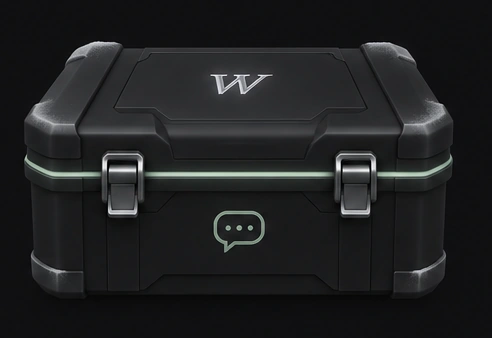
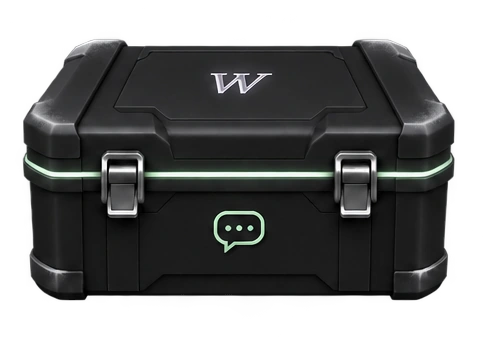
Add smooth case reward previews and isolated opaque chests in stationary rooms

diff --git a/holodos/src/site/index.html b/holodos/src/site/index.html
@@ -10,8 +10,8 @@
 <link rel="preconnect" href="https://fonts.gstatic.com" crossorigin>
 <link href="https://fonts.googleapis.com/css2?family=Manrope:wght@400;500;600;700;800&display=swap" rel="stylesheet">
 <link rel="preload" href="/assets/hero-main-2026.webp?v=20261114hq2" as="image" type="image/webp" fetchpriority="high">
-<link rel="stylesheet" href="/assets/site.css?v=20261114-solid20">
-<script src="/assets/site.js?v=20261114-solid20" defer></script>
+<link rel="stylesheet" href="/assets/site.css?v=20261114-hover22">
+<script src="/assets/site.js?v=20261114-hover22" defer></script>
 </head>
 <body>
 <div class="shell">
@@ -100,7 +100,7 @@
 <section class="view" id="view-cases" data-view="/cases">
  <div class="page-header cases-heading"><p class="eyebrow">КОЛЛЕКЦИЯ / WAR1OUSS</p><h1>Холод с характером<span class="period">.</span></h1><p>Пять кейсов. Пять способов получить свой дроп.</p></div>
  <div class="cases-status"><span class="cases-status-dot"></span><span>Коллекция готовится к запуску. Открытия пока недоступны.</span></div>
- <div class="cases-collection"><article class="collection-case collection-case--donation"><div class="case-artwork"><img src="/assets/case-donation.webp?v=18" alt="Донатный: металлический кейс War1ouss с инеем" width="492" height="338" loading="lazy" decoding="async"><span class="case-type">За донат</span></div><div class="case-content"><p class="case-number">01 / PREMIUM</p><div class="case-title-line"><h2>Донатный</h2></div><p class="case-description">Каждое открытие приносит награду. От W-монет до кодов VP и фигурки POP MART.</p><div class="case-cost">400 ₽</div><details class="case-rewards"><summary>Содержимое и шансы <span aria-hidden="true">+</span></summary><div class="case-reward-list"><div><span>500 W</span><strong>38,88%</strong></div><div><span>1 000 W</span><strong>20%</strong></div><div><span>2 000 W</span><strong>8%</strong></div><div><span>5 000 W</span><strong>2%</strong></div><div><span>10 000 W</span><strong>3%</strong></div><div><span>240 VP</span><strong>25%</strong></div><div><span>475 VP</span><strong>0,08%</strong></div><div><span>1 000 VP</span><strong>0,02%</strong></div><div><span>VIP на месяц</span><strong>3%</strong></div><div><span>Фигурка POP MART</span><strong>0,02%</strong></div></div><p class="case-odds-note">Шанс каждого открытия независим. Редкая награда не гарантирована.</p></details><button class="case-open-button" type="button" disabled>Скоро открытие <span aria-hidden="true">↗</span></button></div></article><article class="collection-case collection-case--twitch"><div class="case-artwork"><img src="/assets/case-twitch.webp?v=18" alt="Баллы Twitch: металлический кейс War1ouss с инеем" width="492" height="338" loading="lazy" decoding="async"><span class="case-type">За баллы канала</span></div><div class="case-content"><p class="case-number">02 / TWITCH</p><div class="case-title-line"><h2>Баллы Twitch</h2></div><p class="case-description">Обменивай баллы канала на кейс. W-монеты, VIP и коды VP внутри.</p><div class="case-cost">10 000 баллов</div><details class="case-rewards"><summary>Содержимое и шансы <span aria-hidden="true">+</span></summary><div class="case-reward-list"><div><span>Ничего</span><strong>50%</strong></div><div><span>100 W</span><strong>35%</strong></div><div><span>1 000 W</span><strong>10%</strong></div><div><span>2 000 W</span><strong>2%</strong></div><div><span>5 000 W</span><strong>0,5%</strong></div><div><span>240 VP</span><strong>0,1%</strong></div><div><span>475 VP</span><strong>0,05%</strong></div><div><span>VIP на месяц</span><strong>2,35%</strong></div></div><p class="case-odds-note">Шанс каждого открытия независим. Редкая награда не гарантирована.</p></details><button class="case-open-button" type="button" disabled>Скоро открытие <span aria-hidden="true">↗</span></button></div></article><article class="collection-case collection-case--chat"><div class="case-artwork"><img src="/assets/case-chat.webp?v=18" alt="За сообщения: металлический кейс War1ouss с инеем" width="492" height="338" loading="lazy" decoding="async"><span class="case-type">За активность</span></div><div class="case-content"><p class="case-number">03 / АКТИВНОСТЬ</p><div class="case-title-line"><h2>За сообщения</h2></div><p class="case-description">Общайся в чате. Прогресс к следующему кейсу накапливается между стримами.</p><div class="case-cost">1 500 сообщений</div><details class="case-rewards"><summary>Содержимое и шансы <span aria-hidden="true">+</span></summary><div class="case-reward-list"><div><span>Ничего</span><strong>40%</strong></div><div><span>100 W</span><strong>45%</strong></div><div><span>1 000 W</span><strong>10%</strong></div><div><span>2 000 W</span><strong>3%</strong></div><div><span>5 000 W</span><strong>0,5%</strong></div><div><span>VIP на месяц</span><strong>1,5%</strong></div></div><p class="case-odds-note">Шанс каждого открытия независим. Редкая награда не гарантирована.</p></details><button class="case-open-button" type="button" disabled>Скоро открытие <span aria-hidden="true">↗</span></button></div></article><article class="collection-case collection-case--vip"><div class="case-artwork"><img src="/assets/case-vip.webp?v=18" alt="VIP: металлический кейс War1ouss с инеем" width="492" height="338" loading="lazy" decoding="async"><span class="case-type">Раз в неделю</span></div><div class="case-content"><p class="case-number">04 / EXCLUSIVE</p><div class="case-title-line"><h2>VIP</h2></div><p class="case-description">Особый кейс для обладателей VIP-значка Twitch. Без пустого результата.</p><div class="case-cost">Для VIP канала</div><details class="case-rewards"><summary>Содержимое и шансы <span aria-hidden="true">+</span></summary><div class="case-reward-list"><div><span>100 W</span><strong>69,95%</strong></div><div><span>1 000 W</span><strong>23%</strong></div><div><span>2 000 W</span><strong>6%</strong></div><div><span>5 000 W</span><strong>0,9%</strong></div><div><span>240 VP</span><strong>0,08%</strong></div><div><span>475 VP</span><strong>0,05%</strong></div><div><span>Фигурка POP MART</span><strong>0,02%</strong></div></div><p class="case-odds-note">Шанс каждого открытия независим. Редкая награда не гарантирована.</p></details><button class="case-open-button" type="button" disabled>Скоро открытие <span aria-hidden="true">↗</span></button></div></article><article class="collection-case collection-case--coins"><div class="case-artwork"><img src="/assets/case-coins.webp?v=18" alt="За W-монеты: металлический кейс War1ouss с инеем" width="492" height="338" loading="lazy" decoding="async"><span class="case-type">Скоро</span></div><div class="case-content"><p class="case-number">05 / W COLLECTION</p><div class="case-title-line"><h2>За W-монеты</h2></div><p class="case-description">Новый способ использовать заработанные W. Стоимость и награды ещё настраиваются.</p><div class="case-cost">За W-монеты</div><div class="case-pending">Содержимое скоро появится</div><button class="case-open-button" type="button" disabled>Скоро открытие <span aria-hidden="true">↗</span></button></div></article></div><div class="cases-footnote"><span>W / WAR1OUSS</span><p>Условия и награды показаны для предварительного просмотра. Подключение выдачи кейсов — следующий этап.</p></div></section>
+ <div class="cases-collection"><article class="collection-case collection-case--donation"><div class="case-artwork"><img src="/assets/case-donation.webp?v=22" alt="Донатный: металлический кейс War1ouss с инеем" width="492" height="338" loading="lazy" decoding="async"><span class="case-type">За донат</span><div class="case-hover-rewards" aria-hidden="true"><span class="case-hover-label">МОЖЕТ ВЫПАСТЬ</span><div><span>500 W</span><span>1 000 W</span><span>2 000 W</span><span>5 000 W</span><span>10 000 W</span><span>240 VP</span><span>475 VP</span><span>1 000 VP</span><span>VIP на месяц</span><span>Фигурка POP MART</span></div></div></div><div class="case-content"><p class="case-number">01 / PREMIUM</p><div class="case-title-line"><h2>Донатный</h2></div><p class="case-description">Каждое открытие приносит награду. От W-монет до кодов VP и фигурки POP MART.</p><div class="case-cost">400 ₽</div><details class="case-rewards"><summary>Содержимое и шансы <span aria-hidden="true">+</span></summary><div class="case-reward-list"><div><span>500 W</span><strong>38,88%</strong></div><div><span>1 000 W</span><strong>20%</strong></div><div><span>2 000 W</span><strong>8%</strong></div><div><span>5 000 W</span><strong>2%</strong></div><div><span>10 000 W</span><strong>3%</strong></div><div><span>240 VP</span><strong>25%</strong></div><div><span>475 VP</span><strong>0,08%</strong></div><div><span>1 000 VP</span><strong>0,02%</strong></div><div><span>VIP на месяц</span><strong>3%</strong></div><div><span>Фигурка POP MART</span><strong>0,02%</strong></div></div><p class="case-odds-note">Шанс каждого открытия независим. Редкая награда не гарантирована.</p></details><button class="case-open-button" type="button" disabled>Скоро открытие <span aria-hidden="true">↗</span></button></div></article><article class="collection-case collection-case--twitch"><div class="case-artwork"><img src="/assets/case-twitch.webp?v=22" alt="Баллы Twitch: металлический кейс War1ouss с инеем" width="492" height="338" loading="lazy" decoding="async"><span class="case-type">За баллы канала</span><div class="case-hover-rewards" aria-hidden="true"><span class="case-hover-label">МОЖЕТ ВЫПАСТЬ</span><div><span>Ничего</span><span>100 W</span><span>1 000 W</span><span>2 000 W</span><span>5 000 W</span><span>240 VP</span><span>475 VP</span><span>VIP на месяц</span></div></div></div><div class="case-content"><p class="case-number">02 / TWITCH</p><div class="case-title-line"><h2>Баллы Twitch</h2></div><p class="case-description">Обменивай баллы канала на кейс. W-монеты, VIP и коды VP внутри.</p><div class="case-cost">10 000 баллов</div><details class="case-rewards"><summary>Содержимое и шансы <span aria-hidden="true">+</span></summary><div class="case-reward-list"><div><span>Ничего</span><strong>50%</strong></div><div><span>100 W</span><strong>35%</strong></div><div><span>1 000 W</span><strong>10%</strong></div><div><span>2 000 W</span><strong>2%</strong></div><div><span>5 000 W</span><strong>0,5%</strong></div><div><span>240 VP</span><strong>0,1%</strong></div><div><span>475 VP</span><strong>0,05%</strong></div><div><span>VIP на месяц</span><strong>2,35%</strong></div></div><p class="case-odds-note">Шанс каждого открытия независим. Редкая награда не гарантирована.</p></details><button class="case-open-button" type="button" disabled>Скоро открытие <span aria-hidden="true">↗</span></button></div></article><article class="collection-case collection-case--chat"><div class="case-artwork"><img src="/assets/case-chat.webp?v=22" alt="За сообщения: металлический кейс War1ouss с инеем" width="492" height="338" loading="lazy" decoding="async"><span class="case-type">За активность</span><div class="case-hover-rewards" aria-hidden="true"><span class="case-hover-label">МОЖЕТ ВЫПАСТЬ</span><div><span>Ничего</span><span>100 W</span><span>1 000 W</span><span>2 000 W</span><span>5 000 W</span><span>VIP на месяц</span></div></div></div><div class="case-content"><p class="case-number">03 / АКТИВНОСТЬ</p><div class="case-title-line"><h2>За сообщения</h2></div><p class="case-description">Общайся в чате. Прогресс к следующему кейсу накапливается между стримами.</p><div class="case-cost">1 500 сообщений</div><details class="case-rewards"><summary>Содержимое и шансы <span aria-hidden="true">+</span></summary><div class="case-reward-list"><div><span>Ничего</span><strong>40%</strong></div><div><span>100 W</span><strong>45%</strong></div><div><span>1 000 W</span><strong>10%</strong></div><div><span>2 000 W</span><strong>3%</strong></div><div><span>5 000 W</span><strong>0,5%</strong></div><div><span>VIP на месяц</span><strong>1,5%</strong></div></div><p class="case-odds-note">Шанс каждого открытия независим. Редкая награда не гарантирована.</p></details><button class="case-open-button" type="button" disabled>Скоро открытие <span aria-hidden="true">↗</span></button></div></article><article class="collection-case collection-case--vip"><div class="case-artwork"><img src="/assets/case-vip.webp?v=22" alt="VIP: металлический кейс War1ouss с инеем" width="492" height="338" loading="lazy" decoding="async"><span class="case-type">Раз в неделю</span><div class="case-hover-rewards" aria-hidden="true"><span class="case-hover-label">МОЖЕТ ВЫПАСТЬ</span><div><span>100 W</span><span>1 000 W</span><span>2 000 W</span><span>5 000 W</span><span>240 VP</span><span>475 VP</span><span>Фигурка POP MART</span></div></div></div><div class="case-content"><p class="case-number">04 / EXCLUSIVE</p><div class="case-title-line"><h2>VIP</h2></div><p class="case-description">Особый кейс для обладателей VIP-значка Twitch. Без пустого результата.</p><div class="case-cost">Для VIP канала</div><details class="case-rewards"><summary>Содержимое и шансы <span aria-hidden="true">+</span></summary><div class="case-reward-list"><div><span>100 W</span><strong>69,95%</strong></div><div><span>1 000 W</span><strong>23%</strong></div><div><span>2 000 W</span><strong>6%</strong></div><div><span>5 000 W</span><strong>0,9%</strong></div><div><span>240 VP</span><strong>0,08%</strong></div><div><span>475 VP</span><strong>0,05%</strong></div><div><span>Фигурка POP MART</span><strong>0,02%</strong></div></div><p class="case-odds-note">Шанс каждого открытия независим. Редкая награда не гарантирована.</p></details><button class="case-open-button" type="button" disabled>Скоро открытие <span aria-hidden="true">↗</span></button></div></article><article class="collection-case collection-case--coins"><div class="case-artwork"><img src="/assets/case-coins.webp?v=22" alt="За W-монеты: металлический кейс War1ouss с инеем" width="492" height="338" loading="lazy" decoding="async"><span class="case-type">Скоро</span><div class="case-hover-rewards" aria-hidden="true"><span class="case-hover-label">НАГРАДЫ</span><p>Содержимое скоро появится</p></div></div><div class="case-content"><p class="case-number">05 / W COLLECTION</p><div class="case-title-line"><h2>За W-монеты</h2></div><p class="case-description">Новый способ использовать заработанные W. Стоимость и награды ещё настраиваются.</p><div class="case-cost">За W-монеты</div><div class="case-pending">Содержимое скоро появится</div><button class="case-open-button" type="button" disabled>Скоро открытие <span aria-hidden="true">↗</span></button></div></article></div><div class="cases-footnote"><span>W / WAR1OUSS</span><p>Условия и награды показаны для предварительного просмотра. Подключение выдачи кейсов — следующий этап.</p></div></section>
 
 <section class="view" id="view-duels" data-view="/duels">
   <div class="page-header"><p class="eyebrow">PVP / ДУЭЛИ</p><h1>Брось вызов<span class="period">.</span></h1><p>Дуэли на W-монеты с теми же правилами, что и в чате. Перерыв после завершения — 2 минуты 30 секунд.</p></div>

diff --git a/holodos/src/site/site.css b/holodos/src/site/site.css
@@ -1247,3 +1247,32 @@ body.inner-page .view.active{animation:slideIn .25s ease both}
 .case-artwork img{mix-blend-mode:normal;opacity:1;mask-image:none;-webkit-mask-image:none}
 @media(max-width:780px){#view-home .hero h1{font-size:clamp(32px,7vw,56px)}}
 @media(max-width:540px){#view-home .hero h1{font-size:clamp(25px,7.2vw,38px)}}
+
+/* Compact case cards with a stronger light behind the container. */
+.cases-collection{gap:18px}
+.collection-case{position:relative;overflow:visible;border-radius:16px;box-shadow:0 0 24px -6px color-mix(in srgb,var(--case-accent) 32%,transparent),0 10px 30px #0005}
+.collection-case:hover{box-shadow:0 0 34px -3px color-mix(in srgb,var(--case-accent) 45%,transparent),0 12px 30px #0007}
+.case-artwork{aspect-ratio:492/270;border-radius:16px 16px 0 0;overflow:hidden}
+.case-artwork img{object-fit:contain}
+.case-type{left:14px;top:12px;padding:5px 9px;font-size:9px}
+.case-content{padding:5px 17px 17px}
+.case-number{font-size:8px;margin-bottom:8px}
+.case-title-line h2{font-size:22px}
+.case-description{font-size:11px;line-height:1.65;min-height:54px;margin:10px 0 12px}
+.case-cost{font-size:17px;margin-bottom:12px}
+.case-rewards summary{padding:12px 0;font-size:10px}
+.case-pending{padding:13px 0;font-size:10px}
+.case-open-button{padding:11px 13px;font-size:10px;border-radius:8px}
+@media(min-width:1500px){.cases-collection{grid-template-columns:repeat(4,minmax(0,1fr))}}
+@media(max-width:620px){.cases-collection{gap:20px}.case-artwork{aspect-ratio:492/250}.case-content{padding:5px 17px 17px}.case-description{min-height:0}}
+
+/* The room stays fixed; only the isolated case sprite floats. */
+.case-artwork img{object-fit:contain;mask-image:none;-webkit-mask-image:none;mix-blend-mode:normal;opacity:1}
+.case-hover-rewards{position:absolute;inset:0;z-index:3;display:flex;flex-direction:column;justify-content:center;padding:18px;background:linear-gradient(135deg,#090c13ed,#11151fe8);backdrop-filter:blur(8px);opacity:0;visibility:hidden;transform:translateY(8px);transition:opacity .32s ease,transform .32s ease,visibility .32s;pointer-events:none}
+.case-hover-label{font-size:8px;letter-spacing:.16em;font-weight:800;color:var(--case-accent);margin-bottom:12px}
+.case-hover-rewards>div{display:flex;flex-wrap:wrap;gap:6px}
+.case-hover-rewards>div>span{font-size:10px;line-height:1.5;color:#e0e5ee;padding:5px 8px;border:1px solid #ffffff18;border-radius:6px;background:#ffffff05}
+.case-hover-rewards p{font-size:11px;color:#b5becb}
+@media(hover:hover){.collection-case:hover .case-hover-rewards{opacity:1;visibility:visible;transform:translateY(0)}}
+.collection-case:focus-within .case-hover-rewards{opacity:1;visibility:visible;transform:translateY(0)}
+@media(prefers-reduced-motion:reduce){.case-hover-rewards{transition:none;transform:none}}
